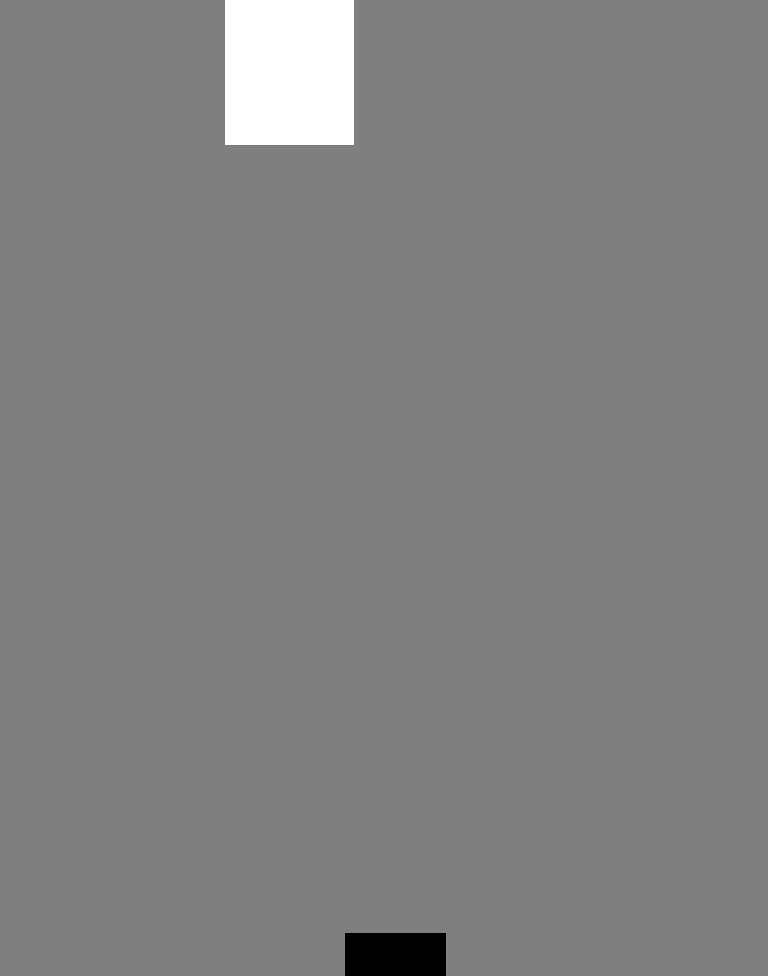
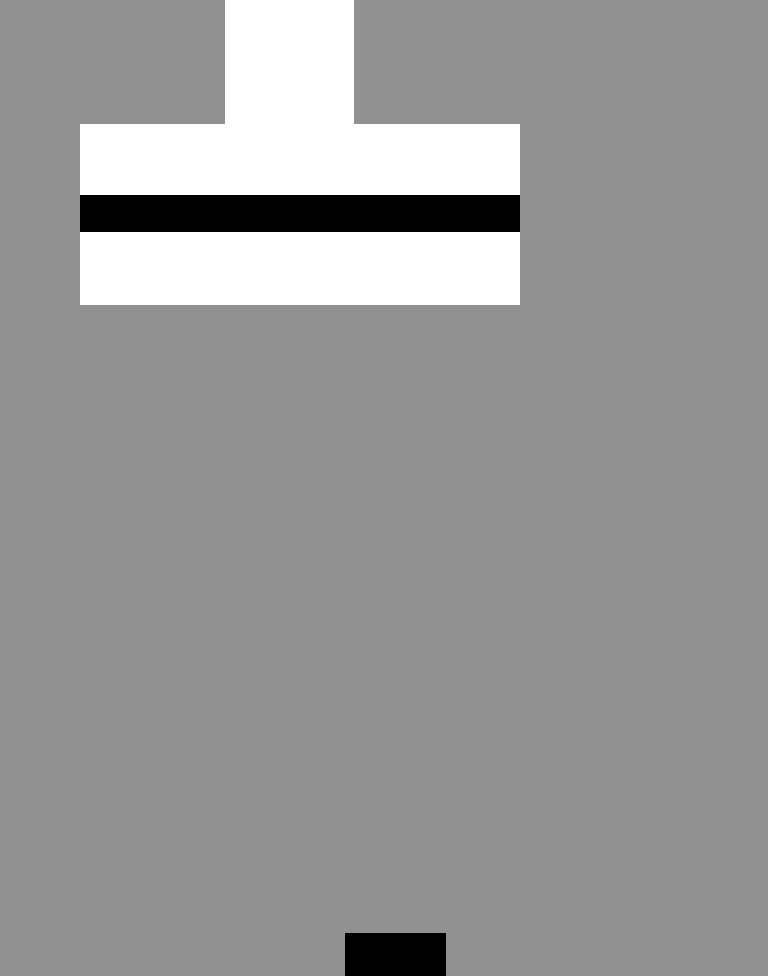
this vaguely resembles working collision detection

Changed region(s): [[0.0938, 0.123, 0.6875, 0.3381]]

diff --git a/src/Classes/Level.m b/src/Classes/Level.m
@@ -22,8 +22,7 @@
 
 @implementation Level
 -(Level*) initWithBackground: (NSString*) backgroundPath {
-	self = [self init];
-	
+	self = [self init];	
 	//set background and add to display tree
 	SPImage *background = [SPImage imageWithContentsOfFile:backgroundPath];
 	[background setY:24];
@@ -44,10 +43,12 @@
         }
     }
 	
-	//initialize our collision maps
-
 	UIImage *backdrop = [UIImage imageWithContentsOfFile:[[NSBundle mainBundle] pathForResource:@"level_0" ofType:@"png"]];
 	[self getCollisionMapsFromImage:backdrop];
+    
+    
+    [self addEventListener:@selector(onEnterFrame:) atObject:self forType:SP_EVENT_TYPE_ENTER_FRAME];
+
 	return self;
 }
 
@@ -120,7 +121,7 @@
 }
 
 - (void)onTouch:(SPTouchEvent *)event {
-	
+/*
     NSArray *touches_started = [[event touchesWithTarget:self
 									   andPhase:SPTouchPhaseBegan] allObjects];
     
@@ -178,6 +179,7 @@
 			}
         }
     }
+ */
 }
 
 - (BOOL)eventIsBlack:(SPTouch *)e {
@@ -232,44 +234,76 @@
 }
 
 - (void)onEnterFrame:(SPEnterFrameEvent *)event {
+    NSLog(@"FRAME!");
     [self playerCollides:whiteplayer isBlack:FALSE inFrame:event];
     [self playerCollides:blackplayer isBlack:TRUE inFrame:event];
 }
 
 - (void)playerCollides:(Player *)player isBlack:(BOOL)b inFrame:(SPEnterFrameEvent*)event {
     Player_movement m = [player movementForFrame:event];
-    
-    BOOL x_plus = m.x2>m.x1;
-    BOOL y_plus = m.y2>m.y1;
-    
-    int horizontal = y_plus?m.y2:m.y2+[player height];
-    int vertical = x_plus?m.x2:m.x2+[player width];
+    if(m.x2 + [player width] > [self width]) {
+        m.x2 = [self width] - [player width];
+    }
+    if(m.y2 + [player height] > [self height]) {
+        m.y2 = [self height] - [player height];
+    }
 
-    BOOL collide=true;
-    while(collide) {
-        collide=false;
-        for(int j=0;j<[player height]-2; j++) { // x axis
-            if((b?blackCollisionMap:whiteCollisionMap)[vertical+j][horizontal]) {
-                collide=true;
-                horizontal+=(x_plus)?1:-1;
-                break;
+    
+    BOOL steep = abs(m.y2 - m.y1) > abs(m.x2 - m.x1);
+    if(steep) {
+        int tmp = m.x1;
+        m.y1 = m.x1;
+        m.x1 = tmp;
+        tmp = m.x2;
+        m.y2 = m.x2;
+        m.x2 = tmp;
+    }
+    int deltax = abs(m.x2 - m.x1);
+    int deltay = abs(m.y2 - m.y1);
+    int error = deltax / 2;
+    int ystep;
+    int y = m.y1;
+  
+    int inc;
+    if(m.x1 < m.x2){
+        inc = 1;
+    } else {
+        inc = -1;
+    }
+ 
+    if(m.y1 < m.y2) {
+        ystep = 1;
+    } else {
+        ystep = -1;
+    }
+    BOOL collision = FALSE;
+    for(int x=m.x1; x<m.x2; x+=inc) {
+        if(collision)
+            break;
+        for(int xcorner=0;xcorner<=1;xcorner++) {
+            for(int ycorner=0;ycorner<=1;ycorner++) {
+                if((b?blackCollisionMap:whiteCollisionMap)[xcorner*(int)[player width]+(steep?y:x)][ycorner*(int)[player height]+(steep?x:y)]) {
+                    NSLog(@"COLLIDE! %d, %d", xcorner, ycorner);
+                    collision=TRUE;
+                    if(xcorner>0) {
+                        [player setDeltaX:0];
+                    }
+                    if(ycorner>0) {
+                        [player setDeltaY:0];
+                    }
+                    break;
+                }
             }
         }
-    }
-    collide=true;
-    while(collide) {
-        for(int j=0;j<[player width]; j++) { // x axis
-            if((b?blackCollisionMap:whiteCollisionMap)[vertical][horizontal+j]) {
-                collide=true;
-                vertical+=(y_plus)?1:-1;
-                break;
-            }
+        // REM increment here a variable to control the progress of the line drawing
+        error = error - deltay;
+        if(error < 0) {
+            y = y + ystep;
+            error = error + deltax;
         }
+        [player setX:(steep?y:x)];
+        [player setY:(steep?x:y)];
     }
-    horizontal-=y_plus?0:[player height];
-    vertical-=x_plus?0:[player width];
-    [player setX:vertical];
-    [player setY:horizontal];
 }
 
 @synthesize blackplayer;

diff --git a/src/Classes/player.m b/src/Classes/player.m
@@ -25,13 +25,12 @@
     if (self = [super init]) {
         [self setupSprite];        
     }
-	[self addEventListener:@selector(onEnterFrame:) atObject:self forType:SP_EVENT_TYPE_ENTER_FRAME];
 	
     [self setDeltaX:10];
 	[self setY:100];
 	[self setGravity: 100];
     
-	[self setOrientation:1];
+	[self setOrientation:[self isBlack]?-1:1];
 	
     return self;
 }
@@ -45,11 +44,12 @@
 
 - (Player_movement) movementForFrame:(SPEnterFrameEvent *)event {
     Player_movement m;
-    m.x1 = [self x];
-    m.x2 = self.x + event.passedTime * deltaX;
-    m.y1 = [self y];
-    m.y2 = self.y + event.passedTime * deltaY + event.passedTime * self.gravity * orientation;
     
+    m.x1 = (int) [self x];
+    m.x2 = (self.x + ceil(event.passedTime * deltaX));
+    m.y1 = (int) [self y];
+    m.y2 = (self.y + ceil(event.passedTime * self.gravity * orientation));
+        
     return m;
 }
 

diff --git a/src/Classes/Level.h b/src/Classes/Level.h
@@ -31,12 +31,14 @@
 - (void)getCollisionMapsFromImage: (UIImage*)image;
 - (BOOL)collides:(SPSprite *)s isBlack:(BOOL)b;
 
-- (void)removePlayerControl;
+- (void)removePlayerControl:(SPTouch *)t;
 
 - (PlayerControl *)getControlForEvent:(SPTouch *)e;
 - (void)setControl:(PlayerControl *)ctl forEvent:(SPTouch *)e;
 - (BOOL)eventIsBlack:(SPTouch *)e;
 - (void)playerCollides:(Player *)player isBlack:(BOOL)b inFrame:(SPEnterFrameEvent*)event;
+- (void)onEnterFrame:(SPEnterFrameEvent *)event;
+
 
 @property(retain) Player *blackplayer;
 @property(retain) Player *whiteplayer;
